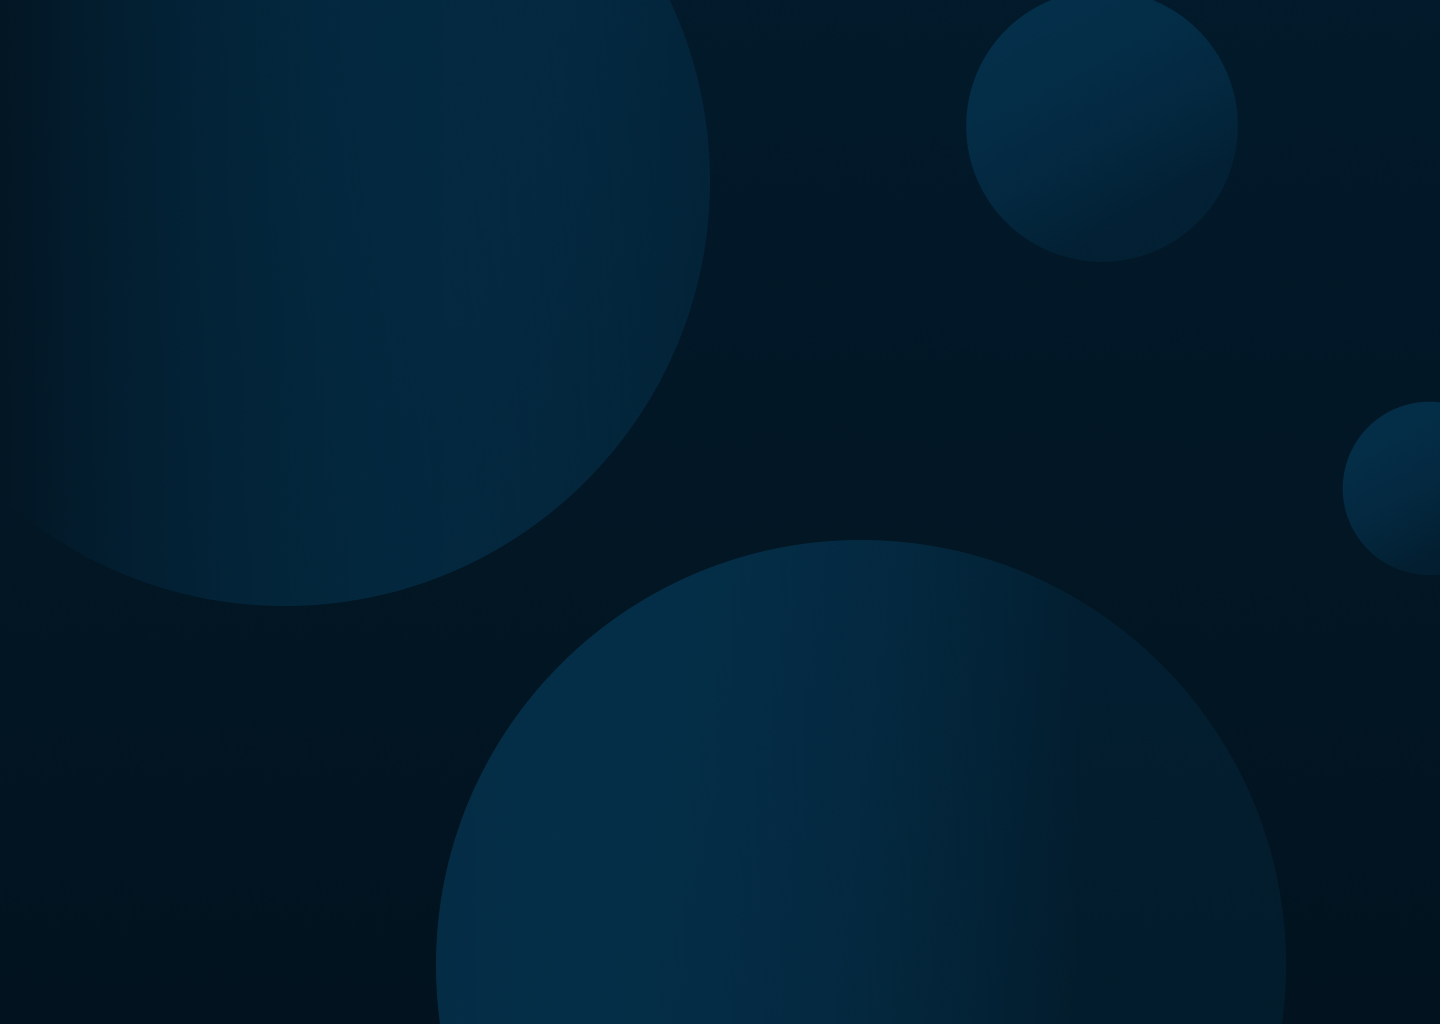
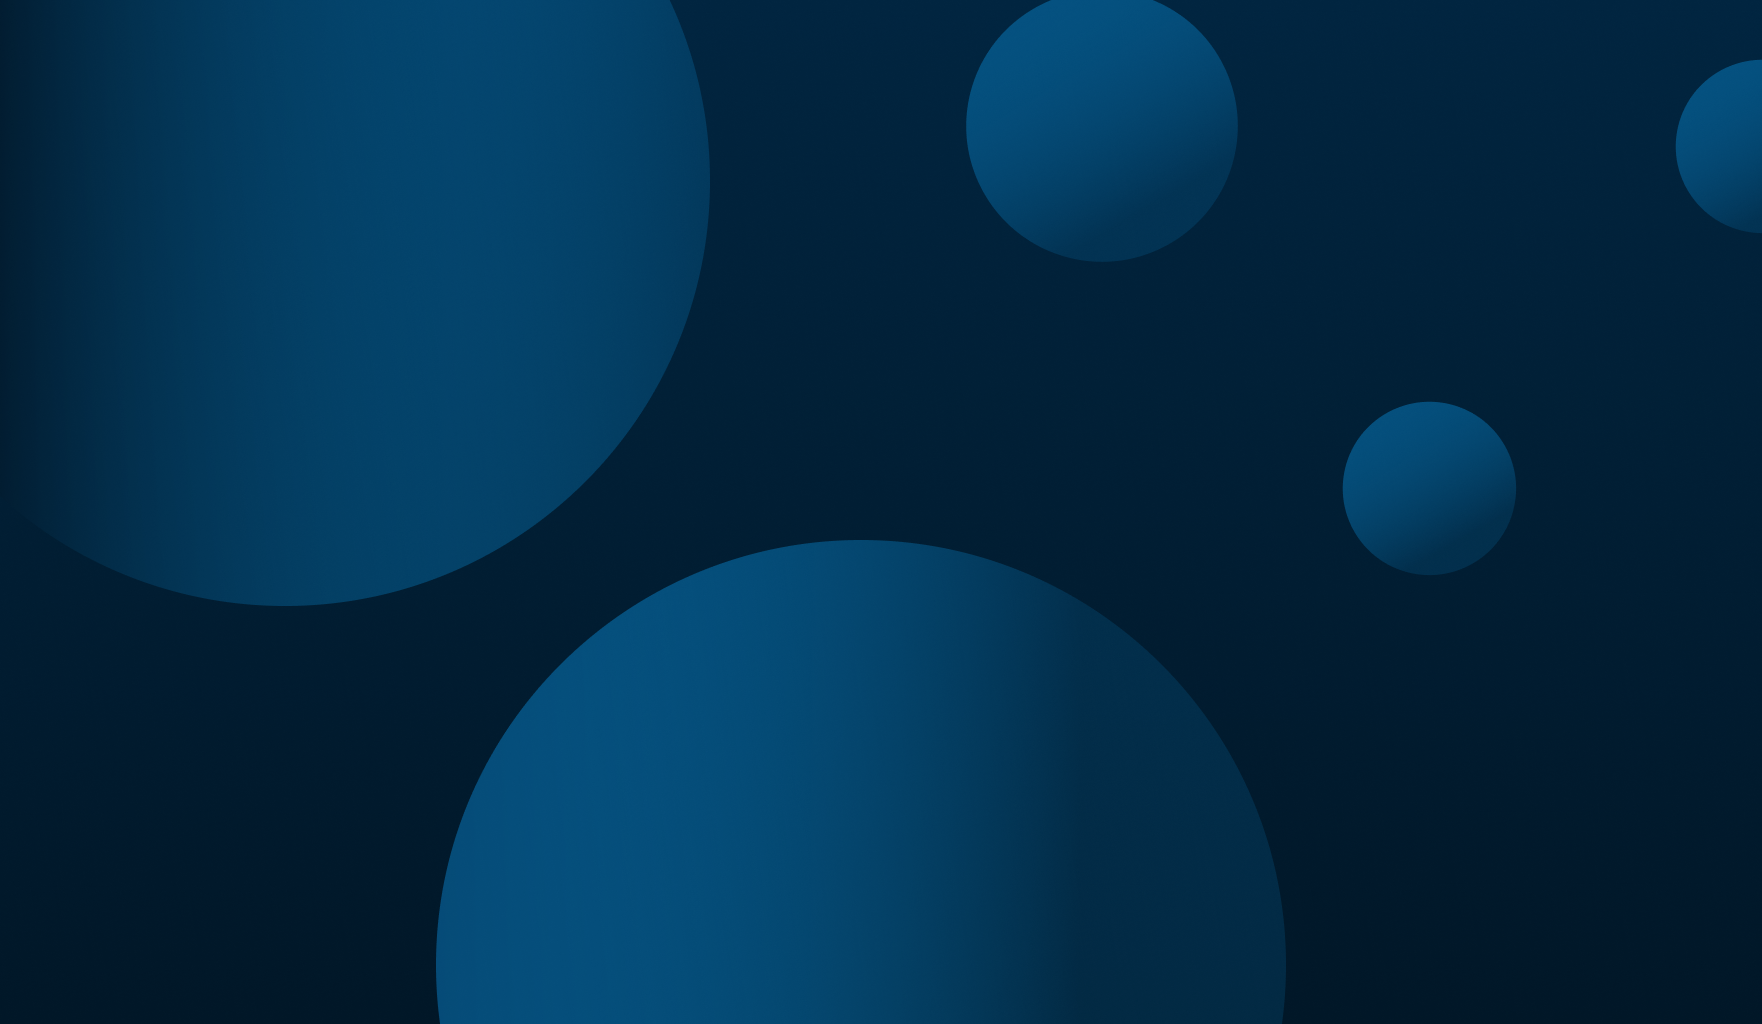
bg fixed mobile view

diff --git a/rewind.css b/rewind.css
@@ -18,14 +18,15 @@ html {
   height: 100%;
   width: 100%;
 }
-/* body {
+body {
   max-height: 100%;
   max-width: 100%;
    background-color: rgb(4, 6, 7); 
 
-} */
+}
 body{
-  background-image: url('assets/btech1.png');
+  /* background-image: url('assets/btech1.png') no-repeat center fixed;
+  background-size: cover; */
 }
 
 /* .removeanimation {

diff --git a/contacts.html b/contacts.html
@@ -16,6 +16,8 @@
             /* background-color: #0B0C10; */
 
             background-image: url('assets/btech1.png');
+            background-repeat: no-repeat;
+            background-size: auto;
 
         }
 

diff --git a/homepagemobile.css b/homepagemobile.css
@@ -6,6 +6,9 @@ body{
 
   
     background-image: url('assets/btech1.png');
+    background-repeat: no-repeat;
+    background-width: 100% 100%;
+
 
     /* background-color: rgb(4, 6, 7); */
     }

diff --git a/register.css b/register.css
@@ -31,6 +31,9 @@
 
 body{
     background-image: url('assets/btech1.png');
+    background-repeat: no-repeat;
+    max-height: 100vw;
+    max-width: 100vw;
 }
 
 .hamburger div {
